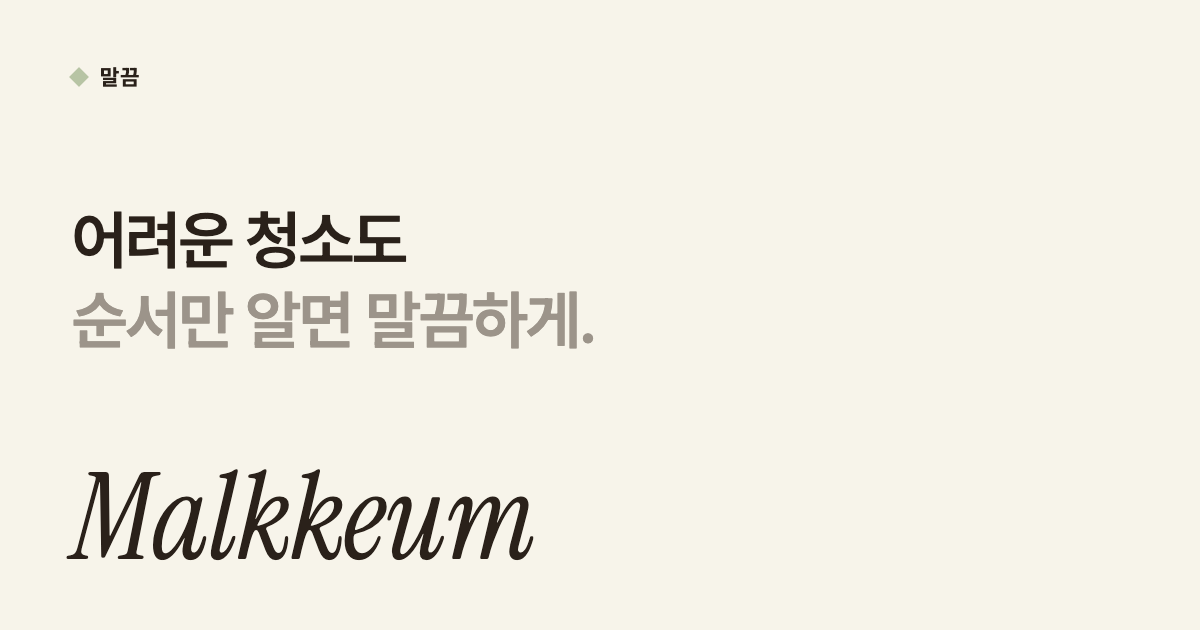
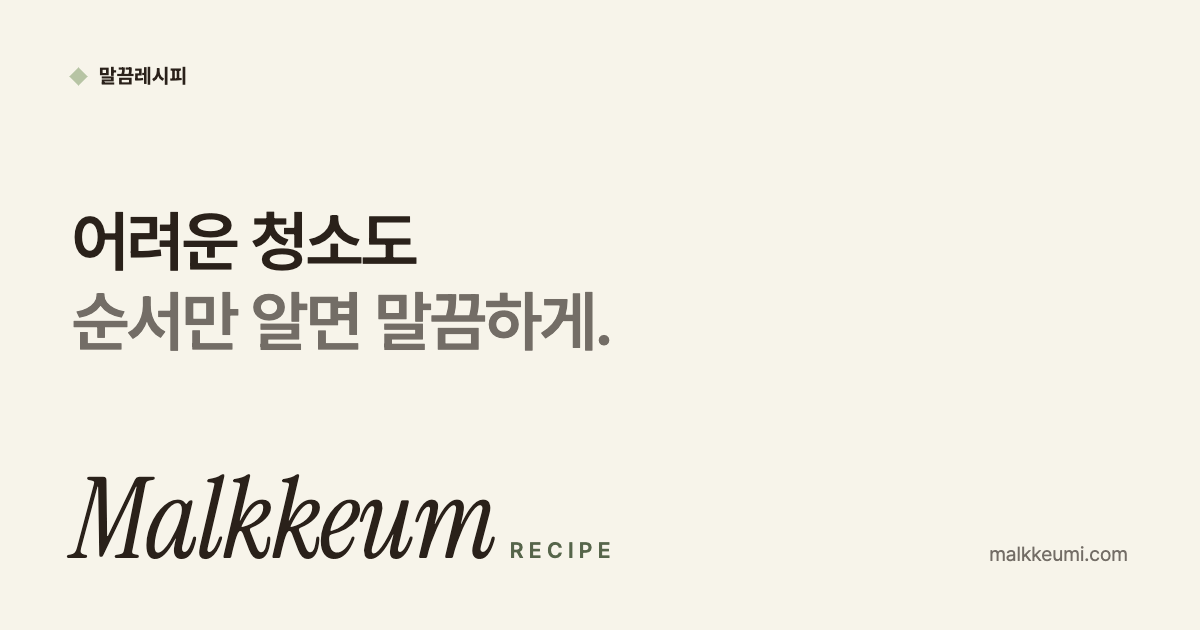
보조 글자색 #736D66으로 교체, 공유 이미지 새 로고로 다시 만들기
- --muted #9c948a → #736d66 (크림 위 대비 2.7 → 4.7:1)
- scripts/og.mjs: 기본 공유 이미지 생성 (ko og-default.png, en og-default-en.png)
- 영어 페이지는 영어 공유 이미지 사용

diff --git a/src/styles/global.css b/src/styles/global.css
@@ -3,7 +3,7 @@
   --bg: #f7f4ea;
   --surface: #fffdf7;
   --text: #2a211a;
-  --muted: #9c948a;
+  --muted: #736d66;
   --line: #e3ddcf;
   --accent: #b7c4a4; /* 세이지 그린 */
   --accent-deep: #56654a; /* 세이지 위 글자, 링크 강조 */
